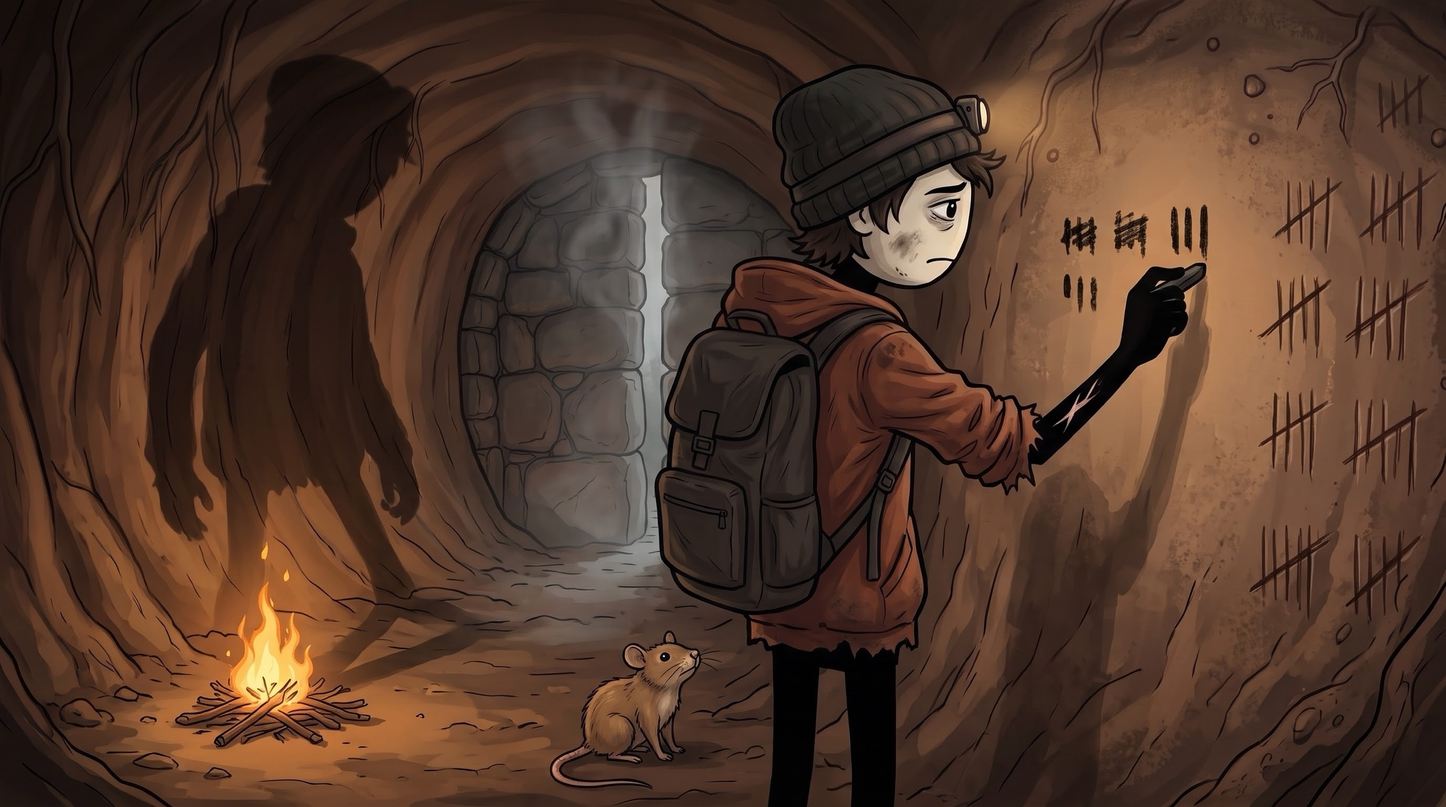
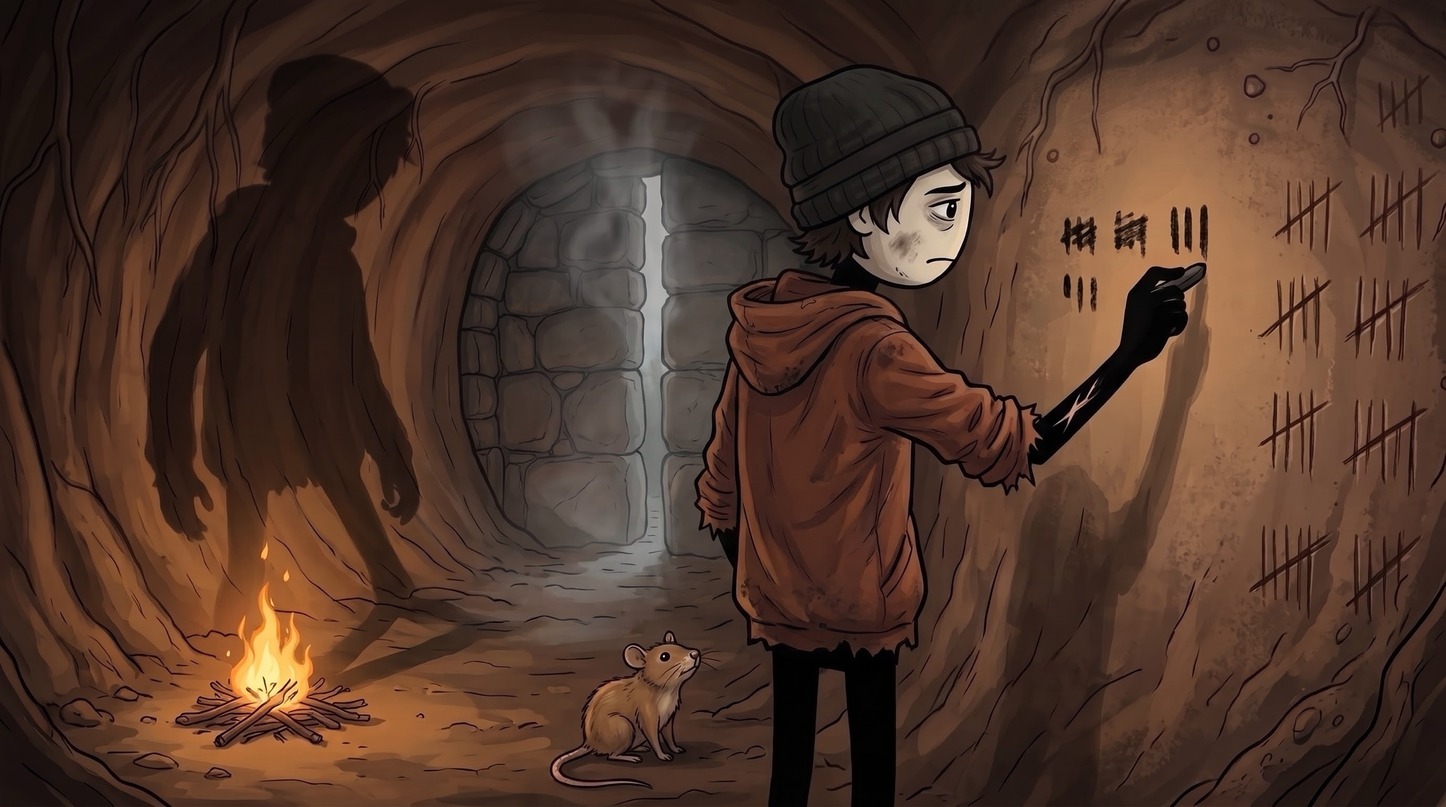
Part 2: batch A fixes; low-tunnel rule
Claude-Session: https://claude.ai/code/session_01NtES8fcQpSP9FW8DWb2y14

diff --git a/videos/dino-part2/shotlist/build.py b/videos/dino-part2/shotlist/build.py
@@ -101,7 +101,7 @@ f("With food in your stomach, you can think again. And the thought that comes ba
 f("She doesn't know where you are. She never will.", "مادر در آشپزخانهی خالی، تنها (همان آشپزخانه)", "EDIT←en:134")
 f("You can't go back. You've known it for weeks. Tonight, you say it out loud. \"I can't go back.\"", "کلوز صورت پسر، لبها، اشک", "CROP←#charcoal")
 f("Pip looks up at you.", "پیپ سر بلند میکند", "CROP←#charcoal")
-f("So you stop waiting to wake up. What's coming is colder and longer than the impact. You'll need a plan.", "پسر میایستد، سایهاش روی دیوار تونل", "CROP←#charcoal")
+f("So you stop waiting to wake up. What's coming is colder and longer than the impact. You'll need a plan.", "پسر زانو زده، سایهاش روی دیوار تونل", "CROP←#charcoal")
 f("Your pen is dry. But the fire leaves charcoal.", "اینسرت: دست زغال سیاه از آتش برمیدارد", "CROP←#charcoal")
 f("You pick up a black stick and write on the tunnel wall, like you wrote in the book on night one.", "پسر با زغال روی دیوار مینویسد، پیپ پایین نگاه میکند (مادر)", "NEW·M", f"{HW} · {TUN} · ref: D11c wall", "W=scar-R · L=fire", key="charcoal")
 f("What you lost. What you have. What you still need.", "کلوز دیوار: خطهای زغالی (متن در تدوین)", "CROP←#charcoal")

diff --git a/videos/dino-part2/prompts/build_prompts.py b/videos/dino-part2/prompts/build_prompts.py
@@ -381,6 +381,7 @@ for i, k in enumerate("ABCDEFG", 1):
             f"- {STYLE}\n- {ANAT}\n"
             "- Every character, animal, place and object must look exactly like its reference. Do not invent new characters.\n"
             "- The young man never wears a backpack. His headlamp is always switched off: its lens is dark and casts no light (the battery died weeks ago).\n"
+            "- The tunnel is low and narrow: inside it he can only sit, kneel, lie or crawl, never stand; when he sits, the clay ceiling is just above his beanie.\n"
             "- His arms and hands are always thin solid black, never white or skin-coloured, even in close-ups.\n"
             "- The young man's only wound is a healed scar on his own RIGHT forearm (from HERO), never on the left, and there is no bandage unless a frame says so.\n"
             "- Wide 16:9, highest quality. No lettering, numbers, captions, logos or watermarks in any image.\n"

diff --git a/videos/dino-part2/prompts/01-batch-A.md b/videos/dino-part2/prompts/01-batch-A.md
@@ -25,6 +25,7 @@ RULES FOR EVERY FRAME:
 - Strict stick-figure anatomy for every person: the only white part is the round off-white head, about one third of the body height; the body under the clothes is a thin solid black stick figure with a short black stick neck; bare arms and legs are thin black lines, never skin; hands are simple solid black hands; the face has only eyes, eyebrows and a simple mouth, no nose and no ears.
 - Every character, animal, place and object must look exactly like its reference. Do not invent new characters.
 - The young man never wears a backpack. His headlamp is always switched off: its lens is dark and casts no light (the battery died weeks ago).
+- The tunnel is low and narrow: inside it he can only sit, kneel, lie or crawl, never stand; when he sits, the clay ceiling is just above his beanie.
 - His arms and hands are always thin solid black, never white or skin-coloured, even in close-ups.
 - The young man's only wound is a healed scar on his own RIGHT forearm (from HERO), never on the left, and there is no bandage unless a frame says so.
 - Wide 16:9, highest quality. No lettering, numbers, captions, logos or watermarks in any image.

diff --git a/videos/dino-part2/prompts/02-batch-B.md b/videos/dino-part2/prompts/02-batch-B.md
@@ -22,6 +22,7 @@ RULES FOR EVERY FRAME:
 - Strict stick-figure anatomy for every person: the only white part is the round off-white head, about one third of the body height; the body under the clothes is a thin solid black stick figure with a short black stick neck; bare arms and legs are thin black lines, never skin; hands are simple solid black hands; the face has only eyes, eyebrows and a simple mouth, no nose and no ears.
 - Every character, animal, place and object must look exactly like its reference. Do not invent new characters.
 - The young man never wears a backpack. His headlamp is always switched off: its lens is dark and casts no light (the battery died weeks ago).
+- The tunnel is low and narrow: inside it he can only sit, kneel, lie or crawl, never stand; when he sits, the clay ceiling is just above his beanie.
 - His arms and hands are always thin solid black, never white or skin-coloured, even in close-ups.
 - The young man's only wound is a healed scar on his own RIGHT forearm (from HERO), never on the left, and there is no bandage unless a frame says so.
 - Wide 16:9, highest quality. No lettering, numbers, captions, logos or watermarks in any image.

diff --git a/videos/dino-part2/prompts/03-batch-C.md b/videos/dino-part2/prompts/03-batch-C.md
@@ -27,6 +27,7 @@ RULES FOR EVERY FRAME:
 - Strict stick-figure anatomy for every person: the only white part is the round off-white head, about one third of the body height; the body under the clothes is a thin solid black stick figure with a short black stick neck; bare arms and legs are thin black lines, never skin; hands are simple solid black hands; the face has only eyes, eyebrows and a simple mouth, no nose and no ears.
 - Every character, animal, place and object must look exactly like its reference. Do not invent new characters.
 - The young man never wears a backpack. His headlamp is always switched off: its lens is dark and casts no light (the battery died weeks ago).
+- The tunnel is low and narrow: inside it he can only sit, kneel, lie or crawl, never stand; when he sits, the clay ceiling is just above his beanie.
 - His arms and hands are always thin solid black, never white or skin-coloured, even in close-ups.
 - The young man's only wound is a healed scar on his own RIGHT forearm (from HERO), never on the left, and there is no bandage unless a frame says so.
 - Wide 16:9, highest quality. No lettering, numbers, captions, logos or watermarks in any image.

diff --git a/videos/dino-part2/prompts/04-batch-D.md b/videos/dino-part2/prompts/04-batch-D.md
@@ -30,6 +30,7 @@ RULES FOR EVERY FRAME:
 - Strict stick-figure anatomy for every person: the only white part is the round off-white head, about one third of the body height; the body under the clothes is a thin solid black stick figure with a short black stick neck; bare arms and legs are thin black lines, never skin; hands are simple solid black hands; the face has only eyes, eyebrows and a simple mouth, no nose and no ears.
 - Every character, animal, place and object must look exactly like its reference. Do not invent new characters.
 - The young man never wears a backpack. His headlamp is always switched off: its lens is dark and casts no light (the battery died weeks ago).
+- The tunnel is low and narrow: inside it he can only sit, kneel, lie or crawl, never stand; when he sits, the clay ceiling is just above his beanie.
 - His arms and hands are always thin solid black, never white or skin-coloured, even in close-ups.
 - The young man's only wound is a healed scar on his own RIGHT forearm (from HERO), never on the left, and there is no bandage unless a frame says so.
 - Wide 16:9, highest quality. No lettering, numbers, captions, logos or watermarks in any image.

diff --git a/videos/dino-part2/prompts/05-batch-E.md b/videos/dino-part2/prompts/05-batch-E.md
@@ -27,6 +27,7 @@ RULES FOR EVERY FRAME:
 - Strict stick-figure anatomy for every person: the only white part is the round off-white head, about one third of the body height; the body under the clothes is a thin solid black stick figure with a short black stick neck; bare arms and legs are thin black lines, never skin; hands are simple solid black hands; the face has only eyes, eyebrows and a simple mouth, no nose and no ears.
 - Every character, animal, place and object must look exactly like its reference. Do not invent new characters.
 - The young man never wears a backpack. His headlamp is always switched off: its lens is dark and casts no light (the battery died weeks ago).
+- The tunnel is low and narrow: inside it he can only sit, kneel, lie or crawl, never stand; when he sits, the clay ceiling is just above his beanie.
 - His arms and hands are always thin solid black, never white or skin-coloured, even in close-ups.
 - The young man's only wound is a healed scar on his own RIGHT forearm (from HERO), never on the left, and there is no bandage unless a frame says so.
 - Wide 16:9, highest quality. No lettering, numbers, captions, logos or watermarks in any image.

diff --git a/videos/dino-part2/prompts/06-batch-F.md b/videos/dino-part2/prompts/06-batch-F.md
@@ -28,6 +28,7 @@ RULES FOR EVERY FRAME:
 - Strict stick-figure anatomy for every person: the only white part is the round off-white head, about one third of the body height; the body under the clothes is a thin solid black stick figure with a short black stick neck; bare arms and legs are thin black lines, never skin; hands are simple solid black hands; the face has only eyes, eyebrows and a simple mouth, no nose and no ears.
 - Every character, animal, place and object must look exactly like its reference. Do not invent new characters.
 - The young man never wears a backpack. His headlamp is always switched off: its lens is dark and casts no light (the battery died weeks ago).
+- The tunnel is low and narrow: inside it he can only sit, kneel, lie or crawl, never stand; when he sits, the clay ceiling is just above his beanie.
 - His arms and hands are always thin solid black, never white or skin-coloured, even in close-ups.
 - The young man's only wound is a healed scar on his own RIGHT forearm (from HERO), never on the left, and there is no bandage unless a frame says so.
 - Wide 16:9, highest quality. No lettering, numbers, captions, logos or watermarks in any image.

diff --git a/videos/dino-part2/prompts/07-batch-G.md b/videos/dino-part2/prompts/07-batch-G.md
@@ -22,6 +22,7 @@ RULES FOR EVERY FRAME:
 - Strict stick-figure anatomy for every person: the only white part is the round off-white head, about one third of the body height; the body under the clothes is a thin solid black stick figure with a short black stick neck; bare arms and legs are thin black lines, never skin; hands are simple solid black hands; the face has only eyes, eyebrows and a simple mouth, no nose and no ears.
 - Every character, animal, place and object must look exactly like its reference. Do not invent new characters.
 - The young man never wears a backpack. His headlamp is always switched off: its lens is dark and casts no light (the battery died weeks ago).
+- The tunnel is low and narrow: inside it he can only sit, kneel, lie or crawl, never stand; when he sits, the clay ceiling is just above his beanie.
 - His arms and hands are always thin solid black, never white or skin-coloured, even in close-ups.
 - The young man's only wound is a healed scar on his own RIGHT forearm (from HERO), never on the left, and there is no bandage unless a frame says so.
 - Wide 16:9, highest quality. No lettering, numbers, captions, logos or watermarks in any image.

diff --git a/videos/dino-part2/shotlist/shotlist.md b/videos/dino-part2/shotlist/shotlist.md
@@ -180,7 +180,7 @@
   > You can't go back. You've known it for weeks. Tonight, you say it out loud. "I can't go back."
 - **#83** · 6:45.6 · `CROP←#86` — پیپ سر بلند میکند
   > Pip looks up at you.
-- **#84** · 6:47.7 · `CROP←#86` — پسر میایستد، سایهاش روی دیوار تونل
+- **#84** · 6:47.7 · `CROP←#86` — پسر زانو زده، سایهاش روی دیوار تونل
   > So you stop waiting to wake up. What's coming is colder and longer than the impact. You'll need a plan.
 - **#85** · 6:56.0 · `CROP←#86` — اینسرت: دست زغال سیاه از آتش برمیدارد
   > Your pen is dry. But the fire leaves charcoal.

diff --git a/videos/dino-part2/ledger.md b/videos/dino-part2/ledger.md
@@ -20,6 +20,7 @@
 
 **Rules to keep:**
 - Headlamp: battery dead since Part 1 (rationed light); in Part 2 it is always off. No backpack in any Part 2 frame.
+- Tunnel height: he can only sit, kneel, lie or crawl inside (Part 1: as wide as his shoulders; the end chamber is just big enough to sit up in).
 - From Part 1: "Dinosaurs left: zero" by day 40 → in Part 2 dinosaurs appear **only in memories of the first weeks**.
 - The bone shovel is **gone after scene 5** (buried). If he digs later, it's with something else.
 - The book keeps its cover. It is **not** burned in this version.
